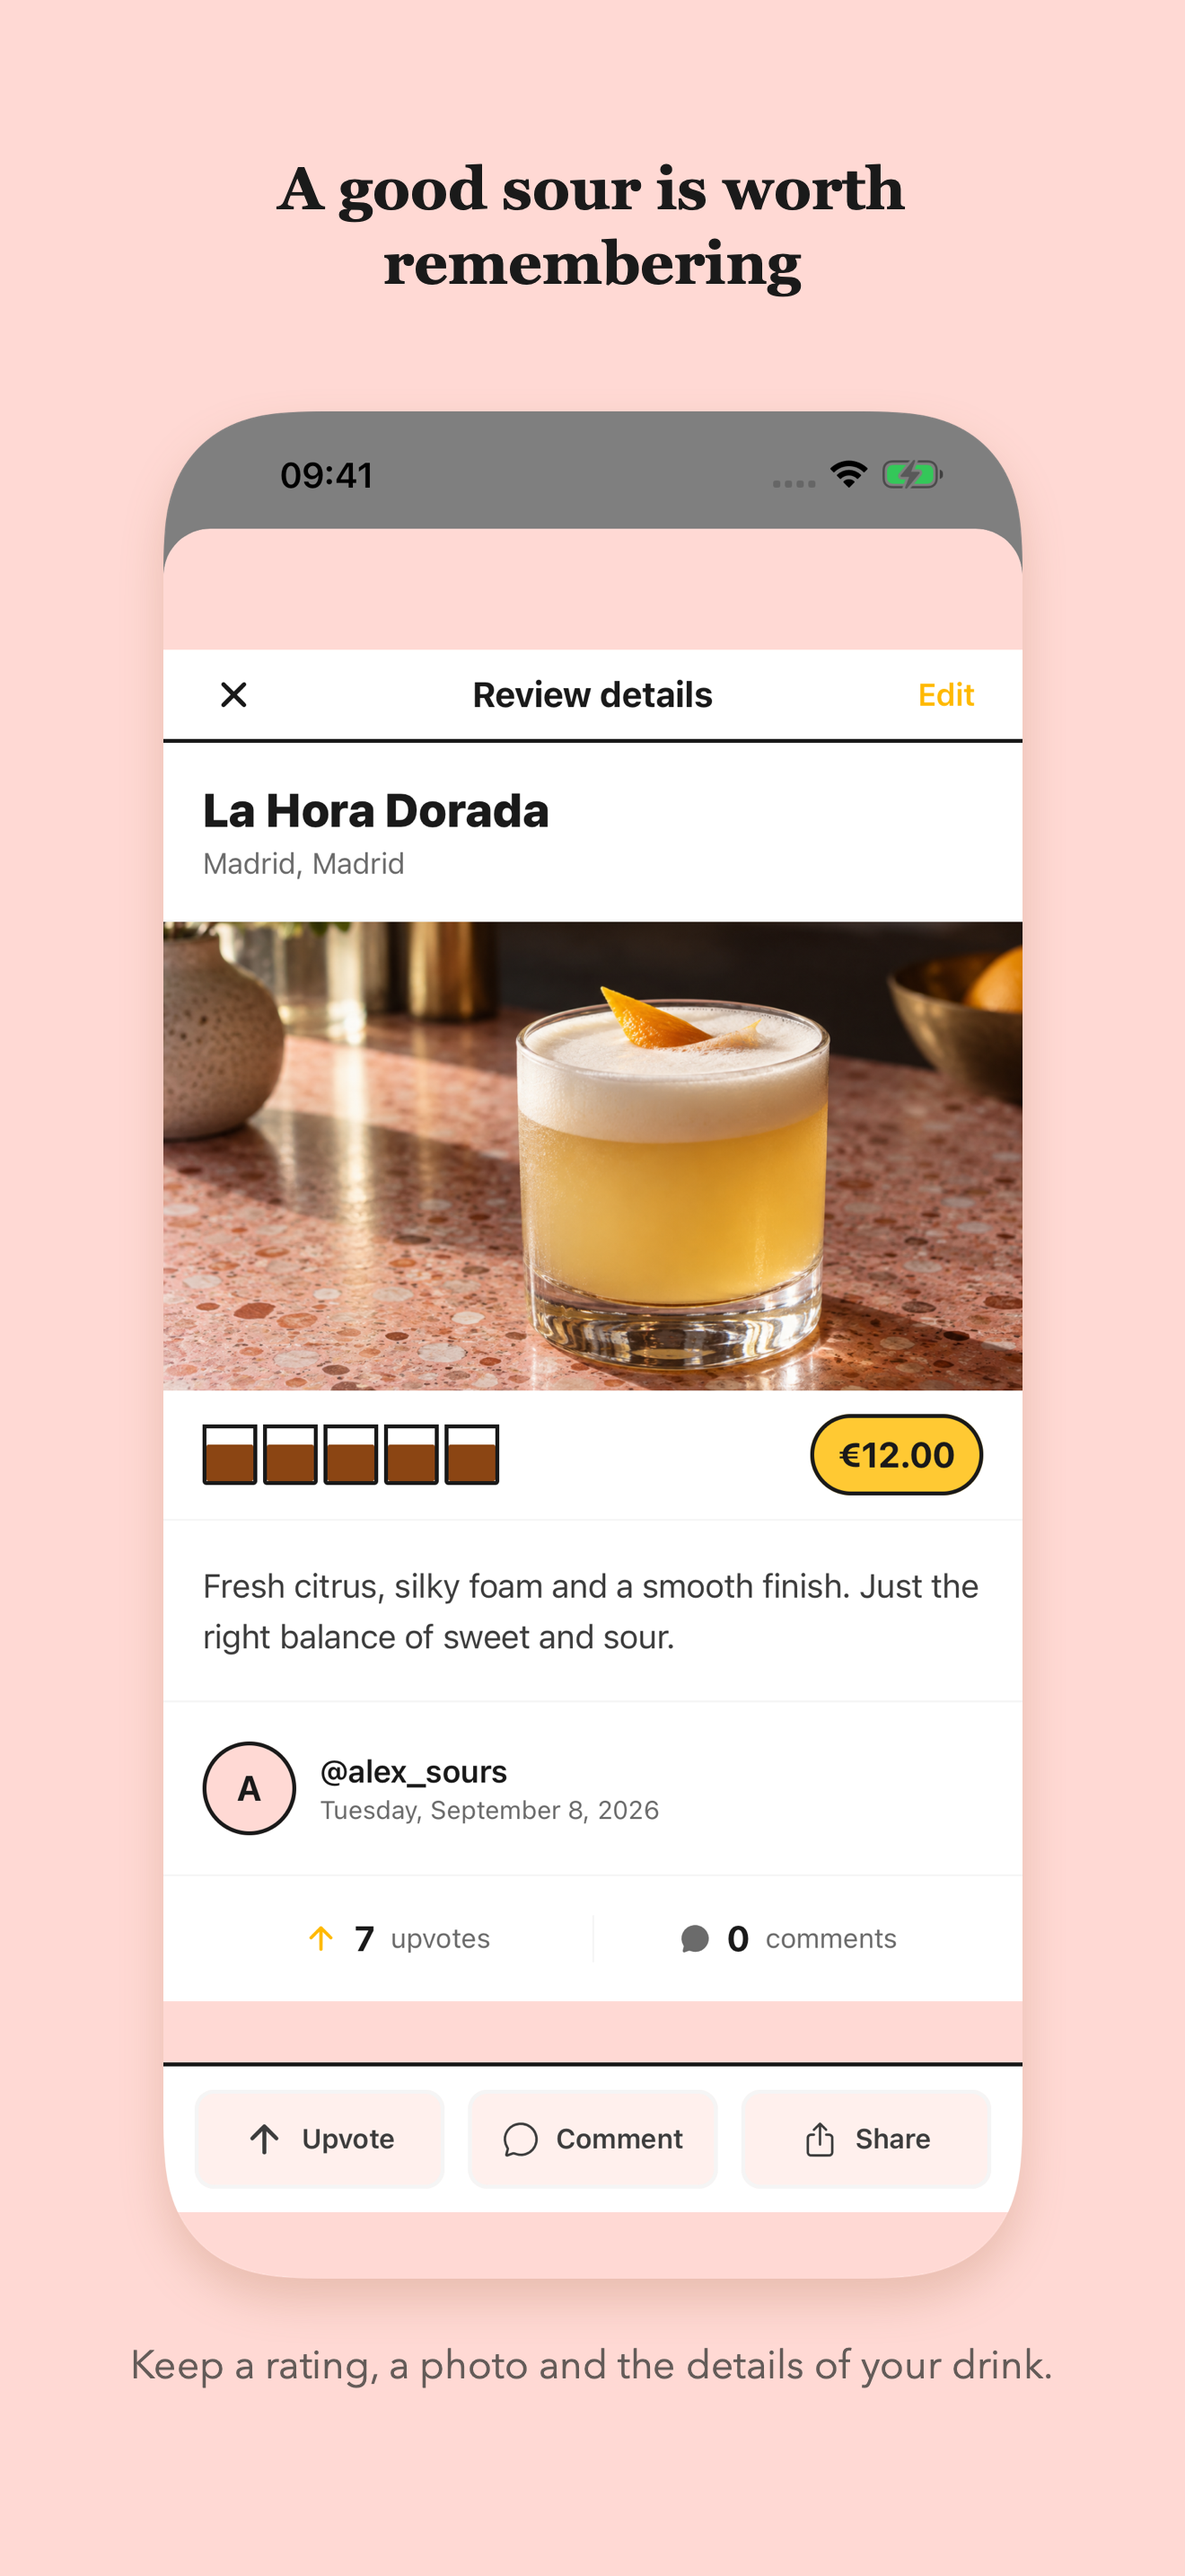
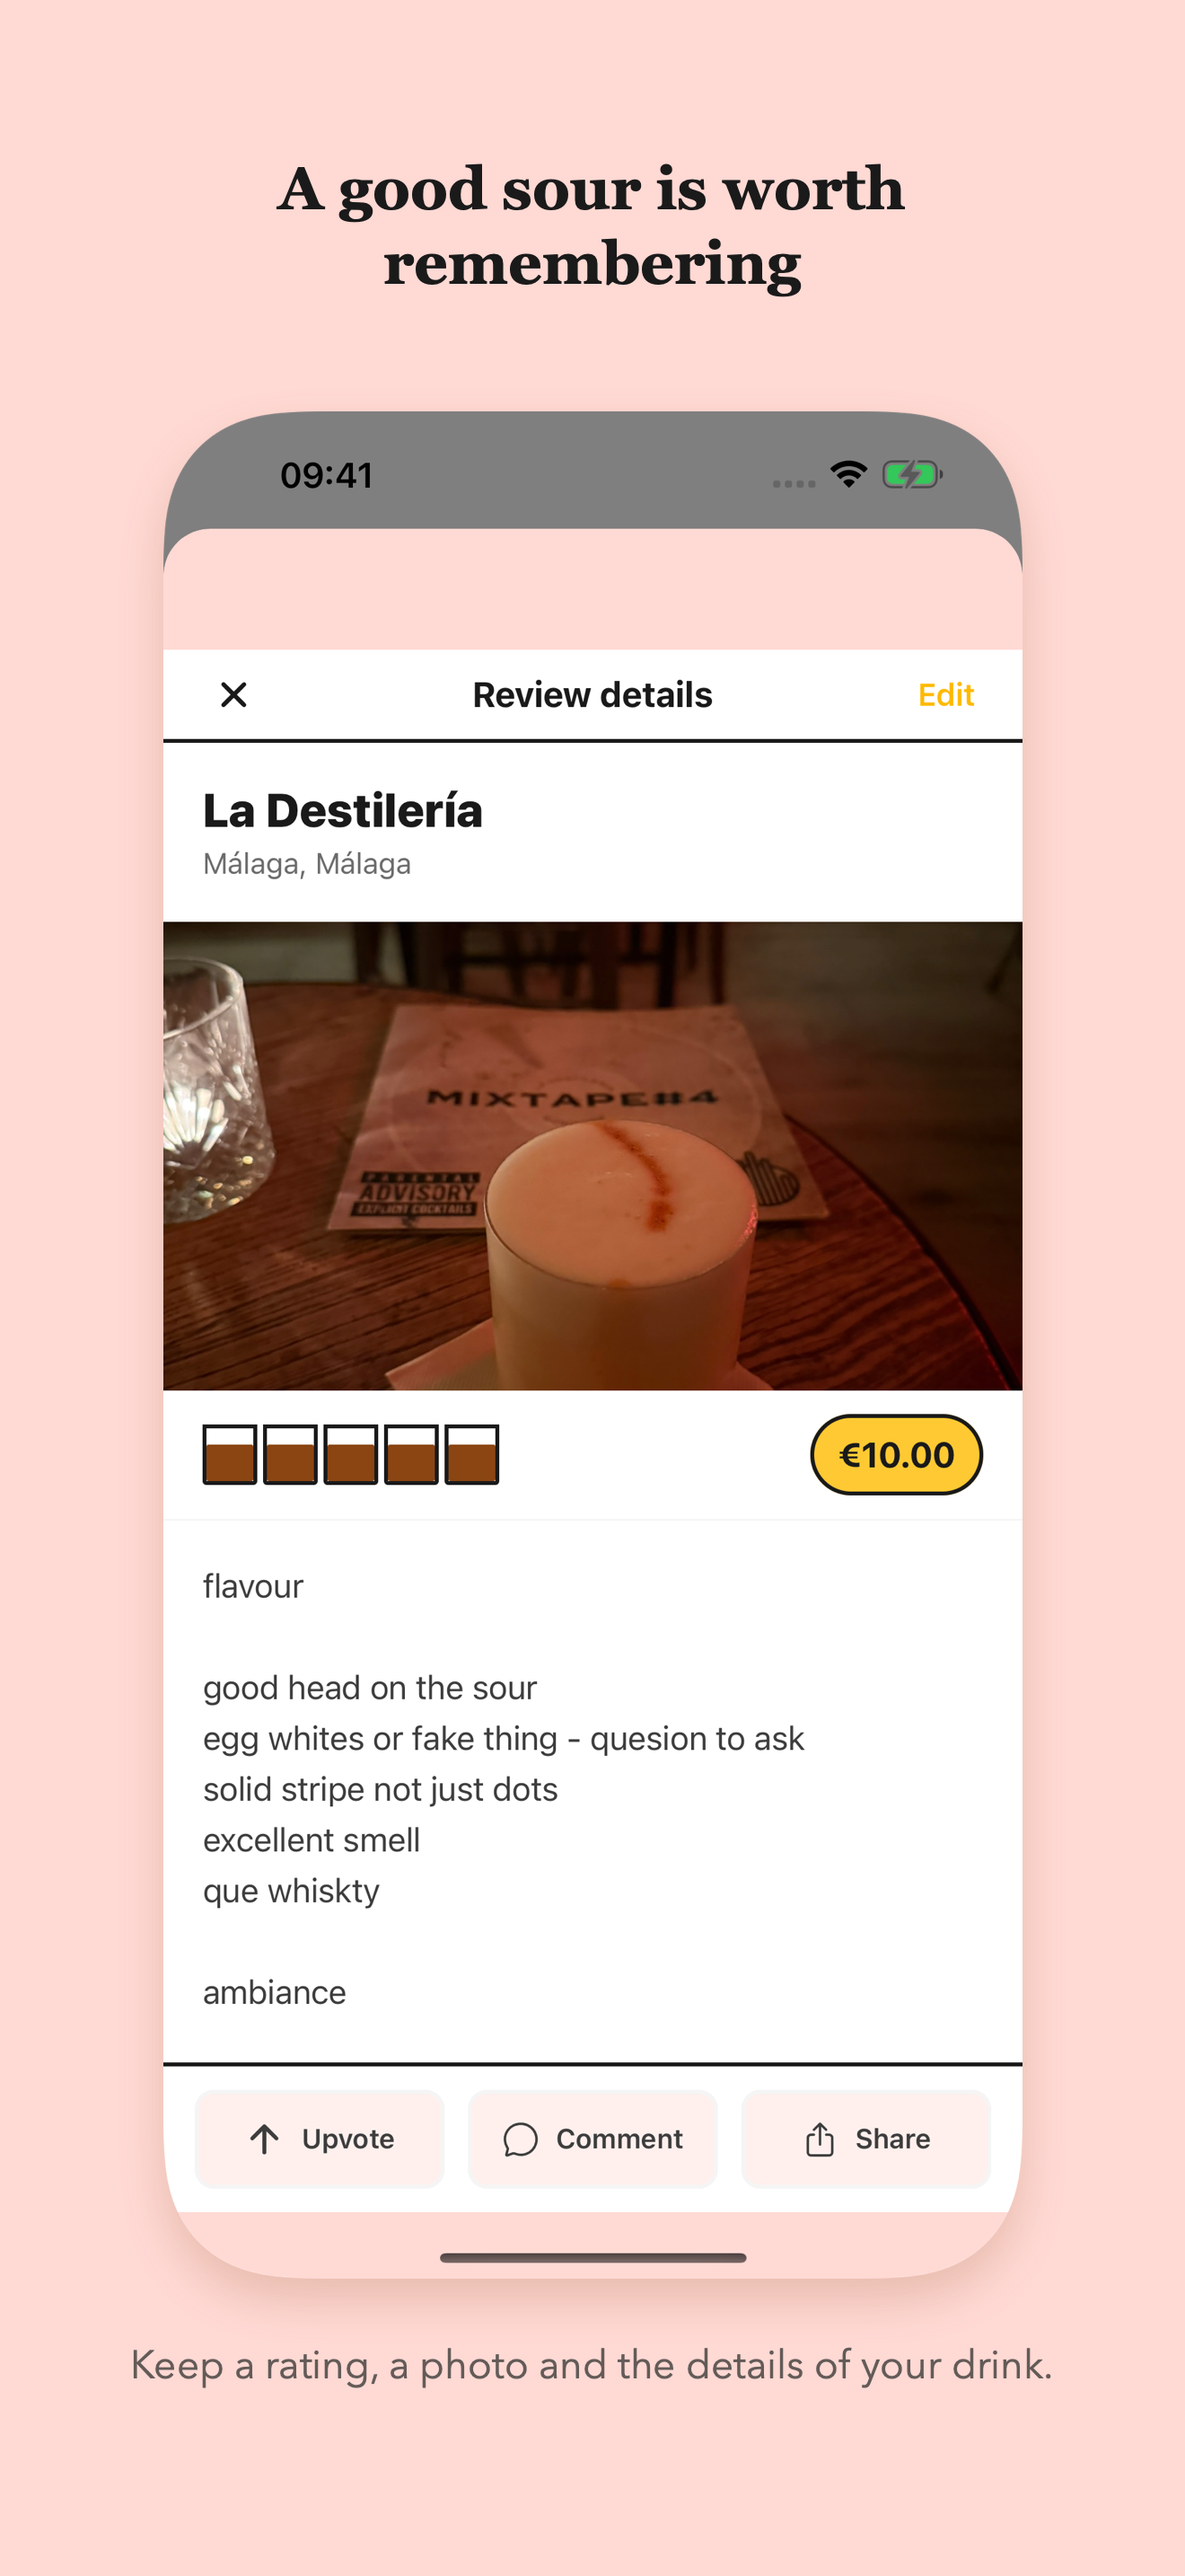
fix(site): show real Malaga reviews

diff --git a/es/index.html b/es/index.html
@@ -105,7 +105,7 @@
 
                 <h3>Guarda una lista</h3>
                 <p>Guarda los lugares que quieres probar y aquellos a los que volverías.</p>
-                <picture><img class="feature-screenshot" src="/screenshots/es-ES/saved-iphone.png" alt="Lista de lugares guardados con varios locales." loading="lazy"></picture>
+                <picture><img class="feature-screenshot" src="/screenshots/es-ES/saved-iphone.png" alt="Lista de lugares guardados con La Destilería en Málaga." loading="lazy"></picture>
             </div>
         </div>
     </section>

diff --git a/index.html b/index.html
@@ -105,7 +105,7 @@
 
                 <h3>Keep a list</h3>
                 <p>Save the places you want to try and the ones you would visit again.</p>
-                <picture><img class="feature-screenshot" src="/screenshots/en-US/saved-iphone.png" alt="Saved places list with several venues." loading="lazy"></picture>
+                <picture><img class="feature-screenshot" src="/screenshots/en-US/saved-iphone.png" alt="Saved places list showing La Destilería in Málaga." loading="lazy"></picture>
             </div>
         </div>
     </section>
